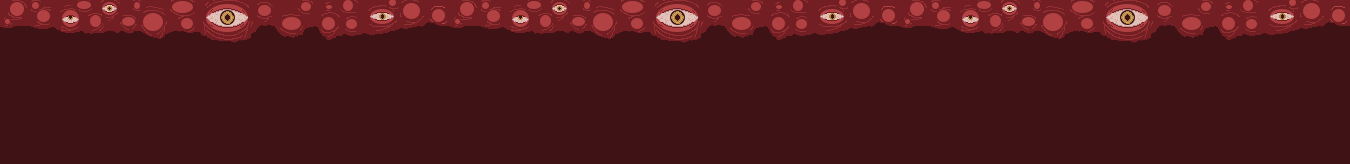
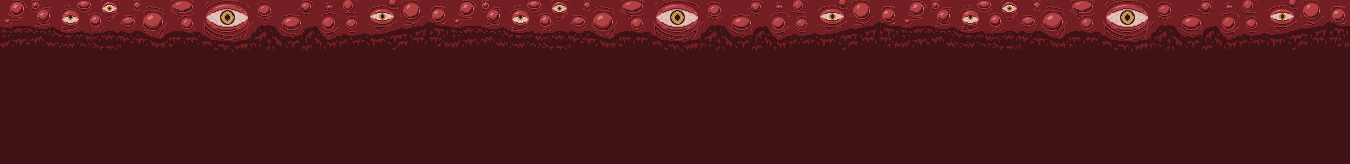
final update to the ground + added stop scrolling if bird is crashed

diff --git a/src/Game.py b/src/Game.py
@@ -36,6 +36,12 @@ class Game:
         if InputManager.is_jump_down():
             self.bird.jump(dt)
 
+        # stop scrolling if bird is crashed
+        if self.bird.crashed():
+            self.scroll_speed = 0
+        else:
+            self.scroll_speed = GameConfig.SCROLL_SPEED
+
         # scroll the background
         self.scroll += self.scroll_speed
         if abs(self.scroll) > 450:

diff --git a/src/Bird.py b/src/Bird.py
@@ -66,3 +66,9 @@ class Bird(pygame.sprite.Sprite):
         gravity_force = 800
         self.velocity.y += gravity_force * dt
 
+    def crashed(self):
+        crashed = False
+        if self.const_rect.centery == GameConfig.SCREEN_DIMENSION.y - 20:
+            crashed = True
+        return crashed
+
